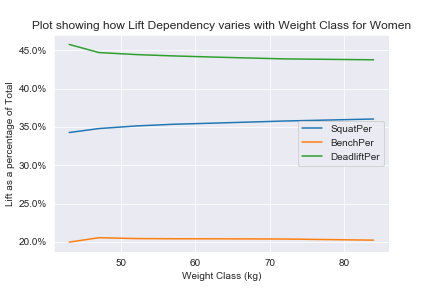
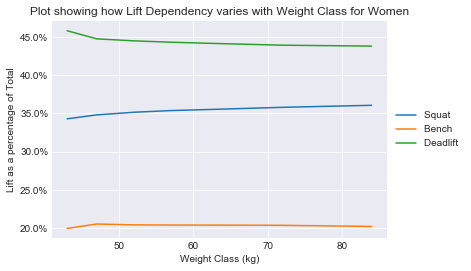
Added lift correlation plots

diff --git a/LiftDependency.py b/LiftDependency.py
@@ -12,6 +12,8 @@ import pandas as pd
 import matplotlib.pyplot as plt
 from matplotlib.ticker import PercentFormatter
 
+plt.style.use('seaborn-darkgrid')
+
 # Load data
 
 df = pd.read_csv('D:/Datasets/Powerlifting/CleanedData.csv', index_col = 'Unnamed: 0')
@@ -21,11 +23,11 @@ df = pd.read_csv('D:/Datasets/Powerlifting/CleanedData.csv', index_col = 'Unname
 lifts = ['Squat', 'Bench', 'Deadlift']
 
 for l in lifts:
-    df['{}Per'.format(l)] = df['Best3{}Kg'.format(l)] / df['TotalKg']
+    df['{} '.format(l)] = df['Best3{}Kg'.format(l)] / df['TotalKg']
     if 'dfLift' not in locals():
-        dfLift = pd.DataFrame(df.groupby(['Sex', 'WeightClassKg'])['{}Per'.format(l)].mean())       
+        dfLift = pd.DataFrame(df.groupby(['Sex', 'WeightClassKg'])['{} '.format(l)].mean())       
     else:
-        dfLift = dfLift.join(pd.DataFrame(df.groupby(['Sex', 'WeightClassKg'])['{}Per'.format(l)].mean()))
+        dfLift = dfLift.join(pd.DataFrame(df.groupby(['Sex', 'WeightClassKg'])['{} '.format(l)].mean()))
         
 # Add sex and weight class as columns for plotting purposes
 
@@ -39,12 +41,46 @@ SexDict = {'M' : 'Men',
 for S in df['Sex'].unique():
     SexName = SexDict[S]
     dfPlot = dfLift.loc[S]
-    dfPlot[:-1].plot(x = 'WeightClassKg', y = ['SquatPer','BenchPer','DeadliftPer'], kind = 'line')
+    dfPlot[:-1].plot(x = 'WeightClassKg', y = ['Squat ','Bench ','Deadlift '], 
+                     kind = 'line')
     
     plt.title('Plot showing how Lift Dependency varies with Weight Class for {}'.format(SexName))
     plt.xlabel('Weight Class (kg)')
     plt.ylabel('Lift as a percentage of Total')
-    plt.gca().yaxis.set_major_formatter(PercentFormatter(1))    
+    plt.gca().yaxis.set_major_formatter(PercentFormatter(1))
+    plt.legend(loc = 'center left', bbox_to_anchor=(1, 0.5), fancybox = True,
+               shadow = True)    
     
-    plt.savefig('docs/assets/{}_Dependency.png'.format(S))
+    plt.savefig('docs/assets/{}_Dependency.png'.format(S), bbox_inches = 'tight')
+    plt.show()
+ 
+# Age
+
+BINCOUNT = 10 # Specify the number of bins
+
+df['YearBin'] = pd.qcut(df['ElapsedDays'], BINCOUNT, labels = False, 
+                        duplicates = 'drop')
+
+for l in lifts:
+    if 'dfAge' not in locals():
+        dfAge = pd.DataFrame(df.groupby(['Sex', 'YearBin'])['{} '.format(l)].mean())       
+    else:
+        dfAge = dfAge.join(pd.DataFrame(df.groupby(['Sex', 'YearBin'])['{} '.format(l)].mean()))
+        
+dfAge = dfAge.join(dfAge.index.to_frame())
+        
+for S in df['Sex'].unique():
+    SexName = SexDict[S]
+    dfPlot = dfAge.loc[S]
+    dfPlot.plot(x = 'YearBin', y = ['Squat ','Bench ','Deadlift '], 
+                     kind = 'line')
+    
+    plt.title('Plot showing how Lift Dependency varies with Age for {}'.format(SexName))
+    plt.xlabel('Age')
+    plt.ylabel('Lift as a percentage of Total')
+    plt.gca().yaxis.set_major_formatter(PercentFormatter(1))
+    plt.legend(loc = 'center left', bbox_to_anchor=(1, 0.5), fancybox = True,
+               shadow = True)    
+    
+    plt.savefig('docs/assets/{}_AgeDependency.png'.format(S), bbox_inches = 'tight')
     plt.show()

diff --git a/InverseCorrelations.py b/InverseCorrelations.py
@@ -1,0 +1,53 @@
+"""
+
+Powerlifting - Inverse Correlations:
+    
+    A script to show inverse correlations between different lifts
+    
+
+"""
+
+# Import libraries
+
+import pandas as pd
+import seaborn as sns
+import matplotlib.pyplot as plt
+
+# Load data
+
+df = pd.read_csv('D:/Datasets/Powerlifting/CleanedData.csv')
+
+# Isolate lifts
+
+lifts = ['Squat', 'Bench', 'Deadlift']
+
+for l in lifts:
+    df['{}Per'.format(l)] = df['Best3{}Kg'.format(l)] / df['TotalKg']
+    
+
+for l in lifts:
+    dfPlot = pd.DataFrame()
+    LiftPlot = lifts.copy()
+    LiftPlot.remove(l)
+    for a in LiftPlot:
+        dfPlot['{}'.format(a)] = df.groupby(['Best3{}Kg'.format(l)])['{}Per'.format(a)].mean().values
+        
+    CorPlot = sns.regplot(x = dfPlot.columns[0], y = dfPlot.columns[1], data = dfPlot)
+    
+    vals = CorPlot.get_yticks()
+    CorPlot.set_yticklabels(['{:,.0%}'.format(x) for x in vals])
+    vals = CorPlot.get_xticks()
+    CorPlot.set_xticklabels(['{:,.0%}'.format(x) for x in vals])
+    
+    plt.title('Plot showing how {} varies with {}'.format(dfPlot.columns[1], dfPlot.columns[0]))
+    plt.xlabel('{} (% of Total)'.format(dfPlot.columns[0]))
+    plt.ylabel('{} (% of Total)'.format(dfPlot.columns[1]))
+    plt.savefig('docs/assets/{}-{}.png'.format(dfPlot.columns[0], dfPlot.columns[1]))
+    plt.show()
+    del dfPlot
+        
+    
+
+    
+        
+
